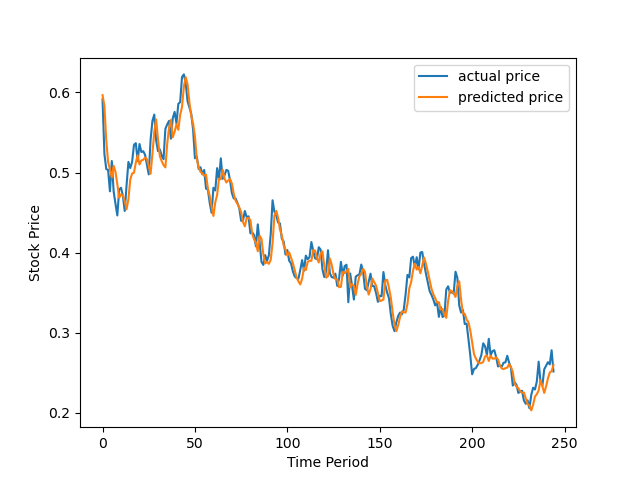
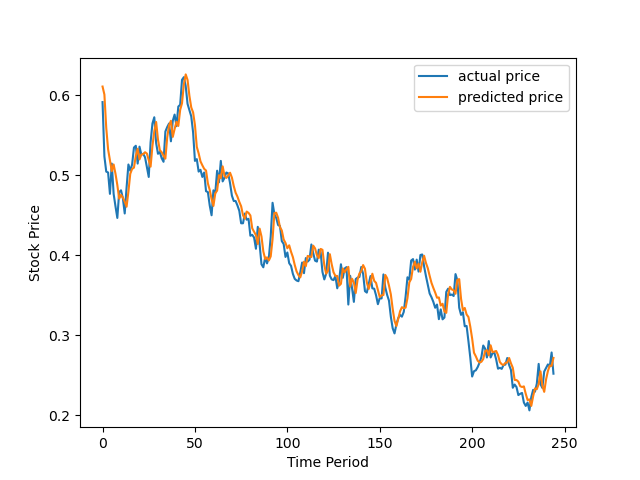
returend to one layer model

diff --git a/stock/main.py b/stock/main.py
@@ -17,15 +17,16 @@ if "DISPLAY" not in os.environ:
     matplotlib.use('Agg')
 
 # train Parameters
-learning_rate = 0.0005
-num_epochs = 3000
+learning_rate = 0.0001
+num_epochs = 4000
 input_size = 8
-hidden_size = 256
+hidden_size = 512
 num_classes = 1
 timesteps = seq_length = 10
-num_layers = 4  # number of layers in RNN
+num_layers = 1  # number of layers in RNN
+
 decay_rate = 1e-5
-dropout_rate = 0.5
+early_stopping_patience = 500
 early_stopping_delta = 1e-5
 
 df = pd.read_csv('에코프로비엠.csv', encoding='utf-8-sig')
@@ -105,7 +106,7 @@ class EarlyStopping :
 
 class LSTM(nn.Module):
 
-    def __init__(self, num_classes, input_size, hidden_size, num_layers, dropout = 0.5):
+    def __init__(self, num_classes, input_size, hidden_size, num_layers):
         super(LSTM, self).__init__()
         self.num_classes = num_classes
         self.num_layers = num_layers
@@ -117,9 +118,8 @@ class LSTM(nn.Module):
         # When true, inputs are (batch_size, sequence_length, input_dimension)
         # instead of (sequence_length, batch_size, input_dimension)
         self.lstm = nn.LSTM(input_size=input_size, hidden_size=hidden_size,
-                            num_layers=num_layers, batch_first=True, dropout = dropout)
+                            num_layers=num_layers, batch_first=True)
         # Fully connected layer
-        self.dropout = nn.Dropout(dropout)
         self.fc = nn.Linear(hidden_size, num_classes)
 
     def forward(self, x):
@@ -134,7 +134,6 @@ class LSTM(nn.Module):
         # h_out의 shape: [num_layers, batch_size, hidden_size]
         # multi-layer 일 때는 마지막 레이어만 가져오기 => h_out[-1]
         h_out = h_out[-1]  # shape: [batch_size, hidden_size]
-
         out = self.fc(h_out)  # => shape: [batch_size, num_classes]
         return out
 
@@ -146,7 +145,7 @@ def init_weights(m) :
             nn.init.zeros_(m.bias)
 
 # Instantiate RNN model
-lstm = LSTM(num_classes, input_size, hidden_size, num_layers, dropout_rate)
+lstm = LSTM(num_classes, input_size, hidden_size, num_layers)
 lstm.apply(init_weights)
 lstm = lstm.to(device)
 
@@ -158,7 +157,8 @@ optimizer = torch.optim.Adam(lstm.parameters(),
                              )
 
 
-early_stopping = EarlyStopping(patience = 200, delta = early_stopping_delta)
+early_stopping = EarlyStopping(patience = early_stopping_patience,
+                               delta = early_stopping_delta)
 
 # Train the model
 for epoch in range(num_epochs):
@@ -181,8 +181,8 @@ for epoch in range(num_epochs):
 
     # EarlyStopping check
     early_stopping(val_loss.item())
-    if epoch % 199 == 0:
-        print(f"Epoch: {epoch + 1}, training loss: {loss.item():.8f}, validation loss: {val_loss.item():.8f}")
+    if epoch % 200 == 0:
+        print(f"Epoch: {epoch}, training loss: {loss.item():.8f}, validation loss: {val_loss.item():.8f}")
     if early_stopping.early_stop:
         print(f"Early stopping triggered at epoch {epoch}")
         break
